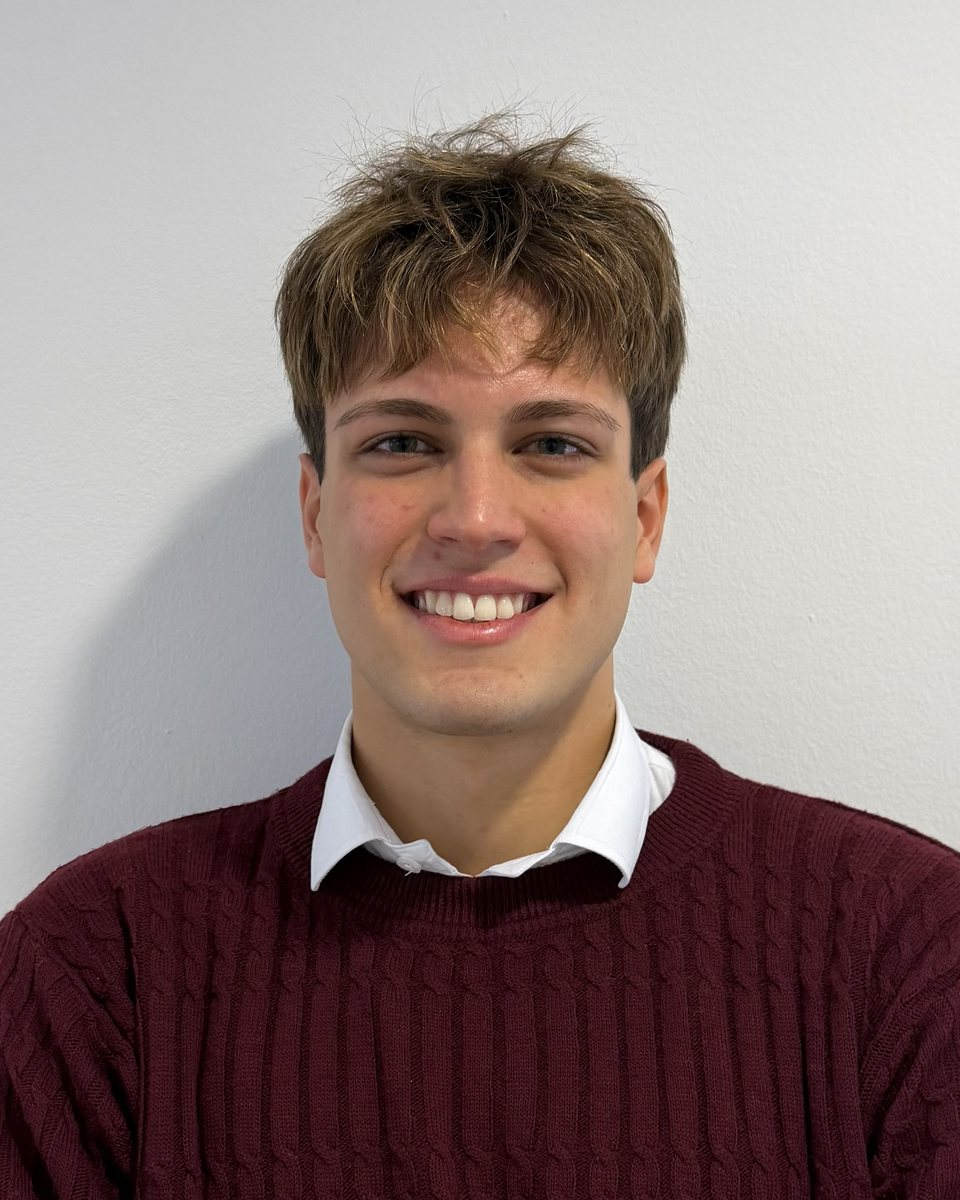
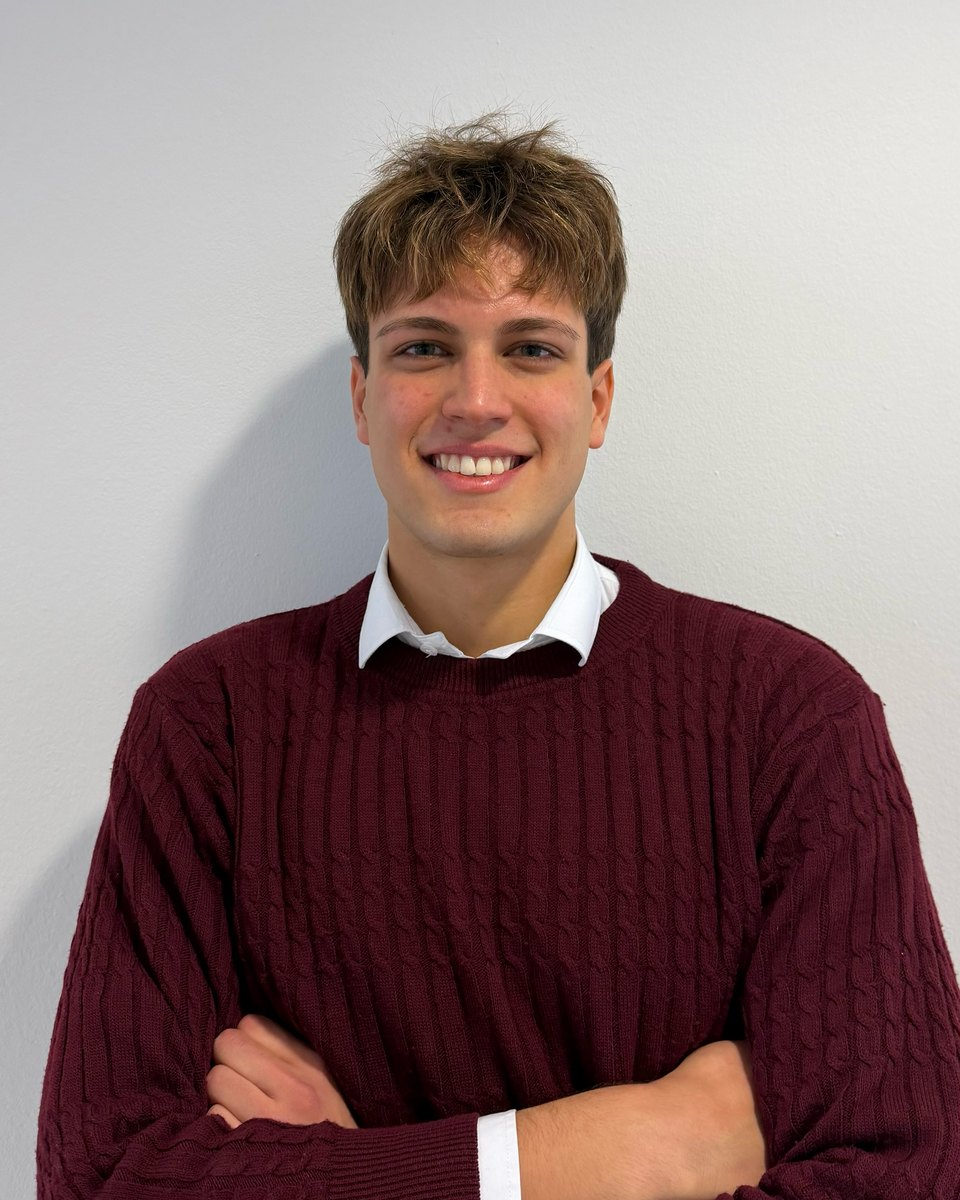
Simplify the team section and widen Teoman's portrait. Each founder now shows the name, role and twelve years of competitive swimming directly above the quote instead of a bullet list, and Teoman's photo uses a wider crop so it is less zoomed in.

diff --git a/index.html b/index.html
@@ -145,19 +145,18 @@ main, footer { position: relative; z-index: 2; }
 .person { display: grid; grid-template-columns: minmax(0, 360px) minmax(0, 1fr); gap: clamp(28px, 6vw, 100px); align-items: center; }
 .person.flip { grid-template-columns: minmax(0, 1fr) minmax(0, 360px); }
 .person.flip .pic { order: 2; }
-@media (max-width: 760px) { .person, .person.flip { grid-template-columns: 1fr; gap: 28px; } .person.flip .pic { order: 0; } .pic { max-width: 320px; } }
+.person.flip .say { justify-self: end; }
+@media (max-width: 760px) { .person, .person.flip { grid-template-columns: 1fr; gap: 28px; } .person.flip .pic { order: 0; } .person.flip .say { justify-self: stretch; } .pic { max-width: 320px; } }
 .pic { position: relative; aspect-ratio: 4 / 5; max-width: 100%; border-radius: 24px; overflow: hidden; background: radial-gradient(120% 85% at 30% 0%, #0b4651, #04161b 58%, #010507); }
 .pic::after { content: ""; position: absolute; inset: 0; border-radius: inherit; box-shadow: inset 0 0 0 1px rgba(255, 255, 255, .08); pointer-events: none; }
 .pic img { position: absolute; inset: 0; width: 100%; height: 100%; object-fit: cover; }
 .ini { position: absolute; left: 7%; bottom: 3%; font: 500 clamp(80px, 11vw, 150px)/.8 var(--display); letter-spacing: -.06em; color: rgba(255, 255, 255, .16); }
+.say { min-width: 0; }
 .person h3 { font-size: clamp(42px, 5.4vw, 80px); line-height: .96; letter-spacing: -.05em; }
-.p-role { margin-top: 14px; font: 500 clamp(18px, 1.6vw, 21px)/1.3 var(--display); letter-spacing: -.01em; color: var(--accent); }
-.quote { margin: clamp(24px, 2.8vw, 36px) 0 0; font: 500 clamp(22px, 2.3vw, 32px)/1.24 var(--display); letter-spacing: -.02em; text-wrap: balance; max-width: 26ch; }
-.facts { list-style: none; margin: clamp(28px, 3.2vw, 44px) 0 0; padding: 0; max-width: 460px; }
-.facts li { padding: 14px 0; border-top: 1px solid var(--rule); font-size: clamp(17px, 1.4vw, 19px); line-height: 1.4; color: #c7c7cc; }
-.facts li:last-child { border-bottom: 1px solid var(--rule); }
-.facts li::before { content: ""; display: inline-block; width: 14px; height: 2px; margin-right: 14px; vertical-align: .32em; border-radius: 2px; background: var(--accent); }
-.facts b { font-weight: 500; color: var(--fg); }
+.p-role { margin-top: 16px; font: 500 clamp(18px, 1.6vw, 21px)/1.3 var(--display); letter-spacing: -.01em; color: var(--accent); }
+.swim { margin-top: 4px; font-size: clamp(17px, 1.4vw, 19px); line-height: 1.4; color: #c7c7cc; }
+.swim b { font-weight: 500; color: var(--fg); }
+.quote { margin: clamp(26px, 3vw, 40px) 0 0; font: 500 clamp(24px, 2.5vw, 36px)/1.22 var(--display); letter-spacing: -.02em; text-indent: -.42em; text-wrap: pretty; max-width: 24ch; }
 
 /* Why: a statement that lights up word by word as you scroll */
 .why { position: relative; height: 200vh; height: 200svh; }
@@ -307,28 +306,20 @@ kbd { display: inline-grid; place-items: center; min-width: 32px; height: 30px; 
     <div class="people">
       <article class="person" data-photo="teoman">
         <figure class="pic"><span class="ini" aria-hidden="true">TC</span></figure>
-        <div>
+        <div class="say">
           <h3>Teoman Civici</h3>
           <p class="p-role">Co-founder</p>
+          <p class="swim"><b>12 years</b> of competitive swimming</p>
           <blockquote class="quote">“Swimming gave me strength, calm and freedom. No one should miss out on that because they can’t see the line.”</blockquote>
-          <ul class="facts">
-            <li><b>12 years</b> of competitive swimming</li>
-            <li><b>State champion</b> in swimming</li>
-            <li><b>Olympiads</b> in maths and physics</li>
-          </ul>
         </div>
       </article>
       <article class="person flip" data-photo="filip">
         <figure class="pic"><span class="ini" aria-hidden="true">FI</span></figure>
-        <div>
+        <div class="say">
           <h3>Filip Ionescu</h3>
           <p class="p-role">Co-founder</p>
+          <p class="swim"><b>12 years</b> of competitive swimming</p>
           <blockquote class="quote">“The best technology disappears. In the water you should feel the line, not the goggles.”</blockquote>
-          <ul class="facts">
-            <li><b>12 years</b> of competitive swimming</li>
-            <li><b>Olympiads</b> in maths and physics</li>
-            <li><b>Technology</b> is his passion</li>
-          </ul>
         </div>
       </article>
     </div>
